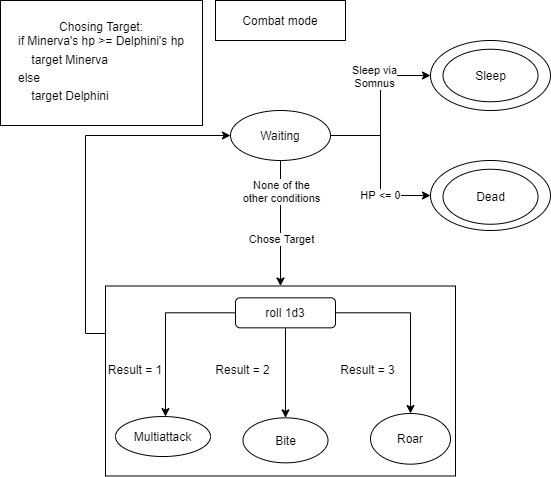
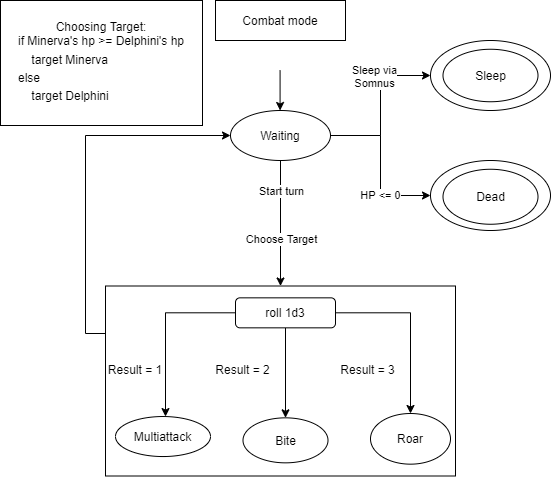
Fixed captions and minor errors

diff --git a/Documentation/Tex/Game_Design/Characters/Albus.tex b/Documentation/Tex/Game_Design/Characters/Albus.tex
@@ -10,11 +10,11 @@ Albus childhood was marked by tragedy by the attack of some muggle boys on her s
 
 From that experience, Albus changed completely, repudiating any possible anti-muggle or mage-elitist movement and fighting against them.
 
-\fullwidthgraphicscaption{../Pictures/Characters/Circumplexes/Albus_circumplex.png}{Albus's cirumplex}
+\fullwidthgraphicscaption{../Pictures/Characters/Circumplexes/Albus_circumplex.png}{Albus' cirumplex}
 \pagebreak 
 
-\fullwidthgraphicscaption{../Pictures/Characters/Relationship_maps/Albus_relmap.png}{Albus's relationship map}
-\fullwidthgraphicscaption{../Pictures/Characters/Relationship_maps/Albus_after_event_relmap.png}{Albus's relationship maps after event}
+\fullwidthgraphicscaption{../Pictures/Characters/Relationship_maps/Albus_relmap.png}{Albus' relationship map}
+\fullwidthgraphicscaption{../Pictures/Characters/Relationship_maps/Albus_after_event_relmap.png}{Albus' relationship map after changing her mind thanks to Minerva}
 
 \clearpage
 

diff --git a/Documentation/Tex/Game_Design/Characters/Delphini.tex b/Documentation/Tex/Game_Design/Characters/Delphini.tex
@@ -13,7 +13,7 @@ Delphini was left orphan as a result of the Second Wizarding War: in her early y
 \pagebreak
 
 \fullwidthgraphicscaption{../Pictures/Characters/Relationship_maps/Delphini_relmap.png} {Delphini's relationship map}
-\fullwidthgraphicscaption{../Pictures/Characters/Relationship_maps/Delphini_after_event_relmap.png}{Delphini's relationship map}
+\fullwidthgraphicscaption{../Pictures/Characters/Relationship_maps/Delphini_after_event_relmap.png}{Delphini's relationship map after changing her mind thanks to Minerva}
 \pagebreak
 
 \fullwidthgraphicscaption{../Pictures/Gameplay/Spells/Delphini_spell_tree.png}{Delphini's spell tree}

diff --git a/Documentation/Tex/Game_Design/Characters/Minerva.tex b/Documentation/Tex/Game_Design/Characters/Minerva.tex
@@ -18,7 +18,7 @@ This event left a scar in Minerva, making her aware of the difficulties of the r
 \fullwidthgraphicscaption{../Pictures/Characters/Circumplexes/Minerva_circumplex.png} {Minerva's circumplex}
 \pagebreak 
 \fullwidthgraphicscaption{../Pictures/Characters/Relationship_maps/Minerva_relmap.png} {Minerva's relationship map}
-\fullwidthgraphics{../Pictures/Characters/Relationship_maps/Minerva_after_event_relmap.png}{Minerva's relationship map after event}
+\fullwidthgraphicscaption{../Pictures/Characters/Relationship_maps/Minerva_after_event_relmap.png}{Minerva's relationship map after Myrtle's death}
 
 \pagebreak
 

diff --git a/Documentation/Tex/Game_Design/Characters/Myrtle.tex b/Documentation/Tex/Game_Design/Characters/Myrtle.tex
@@ -13,6 +13,6 @@ She was born in a rather normal muggle family, discovering in time about her mag
 \fullwidthgraphicscaption{../Pictures/Characters/Circumplexes/Myrtle_circumplex.png}{Myrtle's circumplex}
 \pagebreak 
 
-\fullwidthgraphicscaption{../Pictures/Characters/Relationship_maps/Myrtle_relmap.png}{Myrtle's relationship maps}
+\fullwidthgraphicscaption{../Pictures/Characters/Relationship_maps/Myrtle_relmap.png}{Myrtle's relationship map}
 
 \clearpage

diff --git a/Documentation/Tex/Level_Design/Level_World.tex b/Documentation/Tex/Level_Design/Level_World.tex
@@ -1,5 +1,3 @@
-\pagebreak
-
 \subsection{Level World}
 
 \paragraph{Forbidden Forest}
@@ -65,4 +63,4 @@ Hogwarts' castle instead is a populated place and in the night possible sounds w
 \end{itemize}
 A background music track for this section of the level could be around 70-75 bpm (adagietto) to enhance the stealth feeling of sneaking through the castle, with quick and sudden recurring pizzicato.
 
-\pagebreak
+\clearpage
